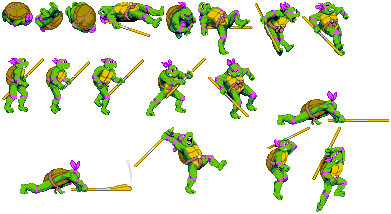
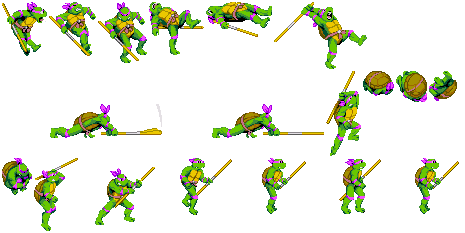
New Models and some bugfixes

diff --git a/core/src/de/quadspot/beatnbrawl/components/AnimationComponent.java b/core/src/de/quadspot/beatnbrawl/components/AnimationComponent.java
@@ -62,8 +62,8 @@ public class AnimationComponent extends Component {
         standRightAnimation = new Animation(0.15f, (textureAtlas.findRegions("stand")));
         standRightAnimation.setPlayMode(Animation.PlayMode.LOOP);
 
-        jumpRightAnimation = new Animation(0.15f, (textureAtlas.findRegions("jump")));
-        jumpRightAnimation.setPlayMode(Animation.PlayMode.LOOP);
+        //jumpRightAnimation = new Animation(0.15f, (textureAtlas.findRegions("jump")));
+        //jumpRightAnimation.setPlayMode(Animation.PlayMode.LOOP);
 
         walkLeftAnimation = flip(0.15f, walkRightAnimation);     
         walkLeftAnimation.setPlayMode(Animation.PlayMode.LOOP);
@@ -71,8 +71,8 @@ public class AnimationComponent extends Component {
         standLeftAnimation = flip(0.15f, standRightAnimation);
         standLeftAnimation.setPlayMode(Animation.PlayMode.LOOP);
 
-        jumpLeftAnimation = flip(0.15f, jumpRightAnimation);
-        jumpLeftAnimation.setPlayMode(Animation.PlayMode.LOOP);
+        //jumpLeftAnimation = flip(0.15f, jumpRightAnimation);
+        //jumpLeftAnimation.setPlayMode(Animation.PlayMode.LOOP);
 
         attackRightAnimation = new Animation(.07f, (textureAtlas.findRegions("hit")));
         attackRightAnimation.setPlayMode(Animation.PlayMode.NORMAL);
@@ -161,6 +161,10 @@ public class AnimationComponent extends Component {
 
     public int getWidth(float elapsedTime) {
         return currentAnimation.getKeyFrame(elapsedTime).getRegionWidth();
+    }
+
+    public int getStandWidth(float elapsedTime) {
+        return standLeftAnimation.getKeyFrame(elapsedTime).getRegionWidth();
     }
 
     public int getHeight(float elapsedTime) {

diff --git a/core/src/de/quadspot/beatnbrawl/systems/CollisionSystem.java b/core/src/de/quadspot/beatnbrawl/systems/CollisionSystem.java
@@ -69,7 +69,7 @@ public class CollisionSystem extends EntitySystem{
         for(int i = 0; i < allEntities.size(); ++i){
             Entity entity = allEntities.get(i);
 
-            ccm.get(entity).getCollidingBody().set(pcm.get(entity).getPosition(), acm.get(entity).getWidth(0)*mapcm.get(mapEntity).getMapFactor(), acm.get(entity).getHeight(0)*mapcm.get(mapEntity).getMapFactor());
+            ccm.get(entity).getCollidingBody().set(pcm.get(entity).getPosition().cpy().add(acm.get(entity).getWidth(0)*mapcm.get(mapEntity).getMapFactor()/2,0,0), acm.get(entity).getWidth(0)*mapcm.get(mapEntity).getMapFactor(), acm.get(entity).getHeight(0)*mapcm.get(mapEntity).getMapFactor());
             ccm.get(entity).setGround(mapcm.get(mapEntity).getGroundBody());
             //System.out.println("Aktuelle Pos:"+pcm.get(entity).getPosition()+"     x:"+ccm.get(entity).getCollidingBody().getBoundingBox().x + "   y:" +ccm.get(entity).getCollidingBody().getBoundingBox().y);
         }
@@ -86,7 +86,7 @@ public class CollisionSystem extends EntitySystem{
         for (int i = 0; i < allEntities.size(); ++i) {
             Entity entity = allEntities.get(i);
 
-            ccm.get(entity).getCollidingBody().set(pcm.get(entity).getPosition());
+            ccm.get(entity).getCollidingBody().set(pcm.get(entity).getPosition().cpy().add(acm.get(entity).getStandWidth(0)*mapcm.get(mapEntity).getMapFactor()/2*-1,0,0));
 
 
             if (ccm.get(entity).isLeftOfGround()) {

diff --git a/core/src/de/quadspot/beatnbrawl/screens/GameScreen.java b/core/src/de/quadspot/beatnbrawl/screens/GameScreen.java
@@ -90,7 +90,7 @@ public class GameScreen implements Screen{
                 updateLevelEnd();
                 //System.out.println("State: " +state);
 
-                setState(GameScreen.GAME_RUNNING);
+                //setState(GameScreen.GAME_RUNNING);
                 break;
             case GAME_OVER:
                 updateGameOver();
@@ -122,6 +122,7 @@ public class GameScreen implements Screen{
             removeSystems();
             newLevel();
             addSystems();
+            setState(GameScreen.GAME_RUNNING);
             //resumeSystems();
         }
     }
@@ -135,7 +136,7 @@ public class GameScreen implements Screen{
         engine.getSystem(HealthSystem.class).setProcessing(false);
         engine.getSystem(PlayerSystem.class).setProcessing(false);
         engine.getSystem(StateSystem.class).setProcessing(false);
-        engine.getSystem(RenderSystem.class).setProcessing(false);
+        //engine.getSystem(RenderSystem.class).setProcessing(false);
     }
 
     public void resumeSystems() {

diff --git a/core/src/de/quadspot/beatnbrawl/components/MapComponent.java b/core/src/de/quadspot/beatnbrawl/components/MapComponent.java
@@ -2,6 +2,8 @@ package de.quadspot.beatnbrawl.components;
 
 import com.badlogic.ashley.core.Component;
 import com.badlogic.gdx.Gdx;
+import com.badlogic.gdx.audio.Music;
+import com.badlogic.gdx.audio.Sound;
 import com.badlogic.gdx.graphics.g2d.Batch;
 import com.badlogic.gdx.maps.MapObject;
 import com.badlogic.gdx.maps.MapObjects;
@@ -38,8 +40,9 @@ public class MapComponent extends Component{
         tmp = ((RectangleMapObject) objects.get("ground2")).getRectangle();
         groundBody2 = tmp.setSize(tmp.getWidth()*mapFactor, tmp.getHeight()*mapFactor);
 
-        
-            
+
+        Music mp3Music = Gdx.audio.newMusic(Gdx.files.internal("sounds/alleycat.blues.mp3"));
+        mp3Music.play();
         
         
         for (MapObject object : objects) {

diff --git a/core/src/de/quadspot/beatnbrawl/systems/RenderSystem.java b/core/src/de/quadspot/beatnbrawl/systems/RenderSystem.java
@@ -182,7 +182,7 @@ public class RenderSystem extends EntitySystem {
         for (SpriteData sprite : sort) {
             
            //batch.draw((TextureRegion)sprite[0], (float)sprite[1], (float)sprite[2],0,0,(float)sprite[3],(float)sprite[4],scale,scale,0);
-            batch.draw(sprite.getTr(),sprite.getX(), sprite.getY(),0,0,sprite.getWidth(),sprite.getHeigth(),scale,scale,0);
+            batch.draw(sprite.getTr(),sprite.getX(), sprite.getY(),sprite.getWidth()/2,0,sprite.getWidth(),sprite.getHeigth(),scale,scale,0);
 
         }
 

diff --git a/core/src/de/quadspot/beatnbrawl/CollidingBody.java b/core/src/de/quadspot/beatnbrawl/CollidingBody.java
@@ -138,8 +138,8 @@ public class CollidingBody {
     }
 
     public void set(Vector3 position){
-        this.position.set(new Vector2(position.x-30,position.z));
-        this.x = this.position.x-30;
+        this.position.set(new Vector2(position.x,position.z));
+        this.x = this.position.x;
         this.y = this.position.y;
         setRecs();
     }

diff --git a/core/src/de/quadspot/beatnbrawl/systems/AISystem.java b/core/src/de/quadspot/beatnbrawl/systems/AISystem.java
@@ -121,6 +121,8 @@ public class AISystem extends EntitySystem {
                     }
                 }
             }
+            else
+                mcm.get(entity).getVelocity().setZero();
         }
         if (bossEntities.size()==0)
             gameScreen.setState(GameScreen.GAME_LEVEL_END);
